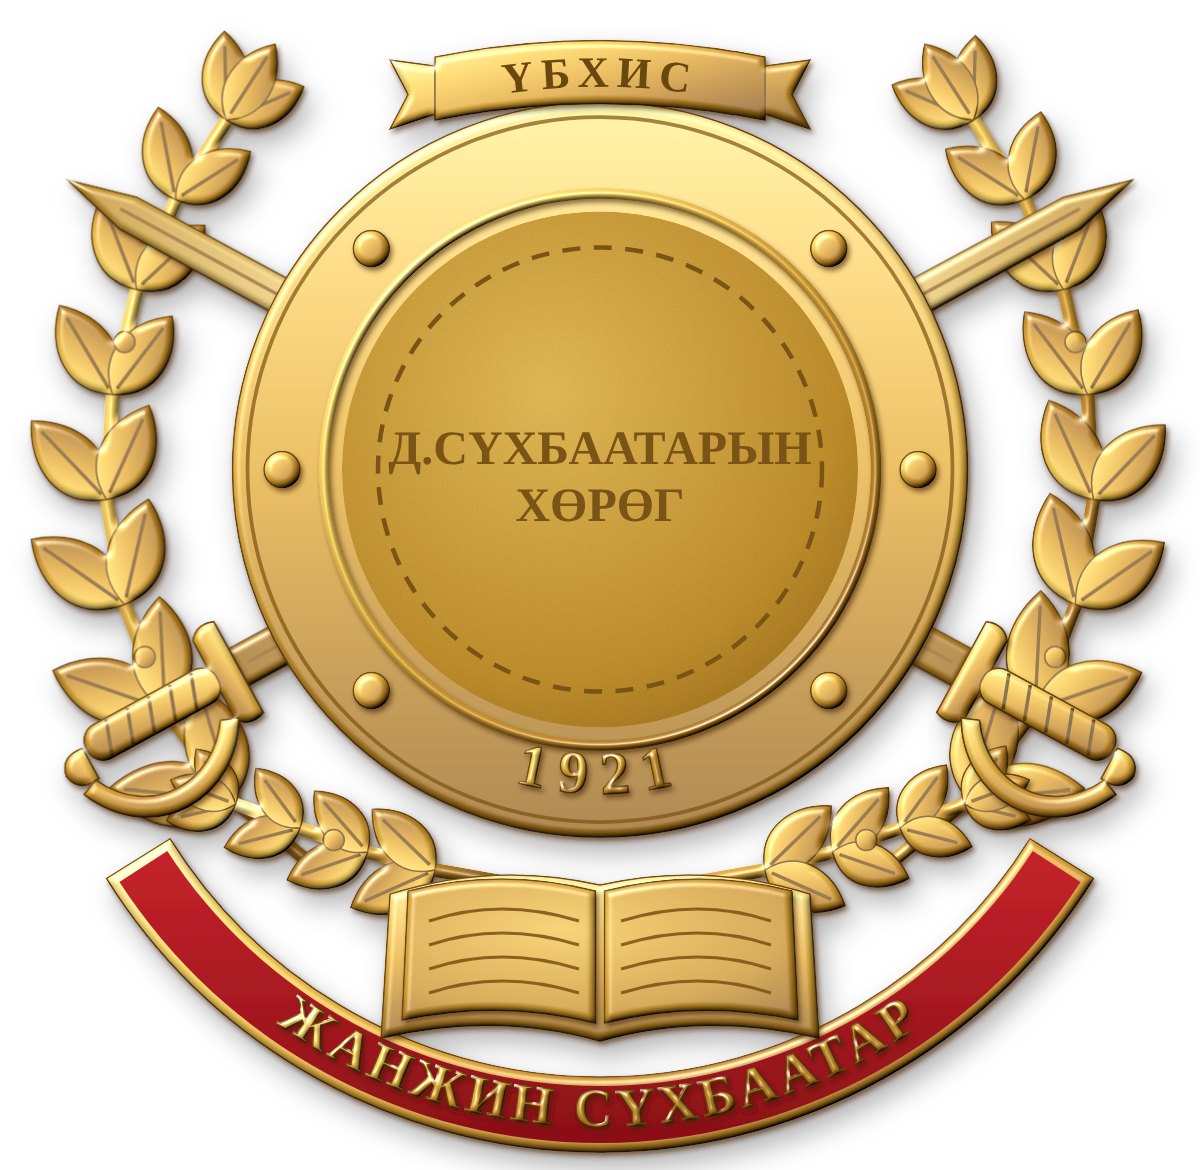
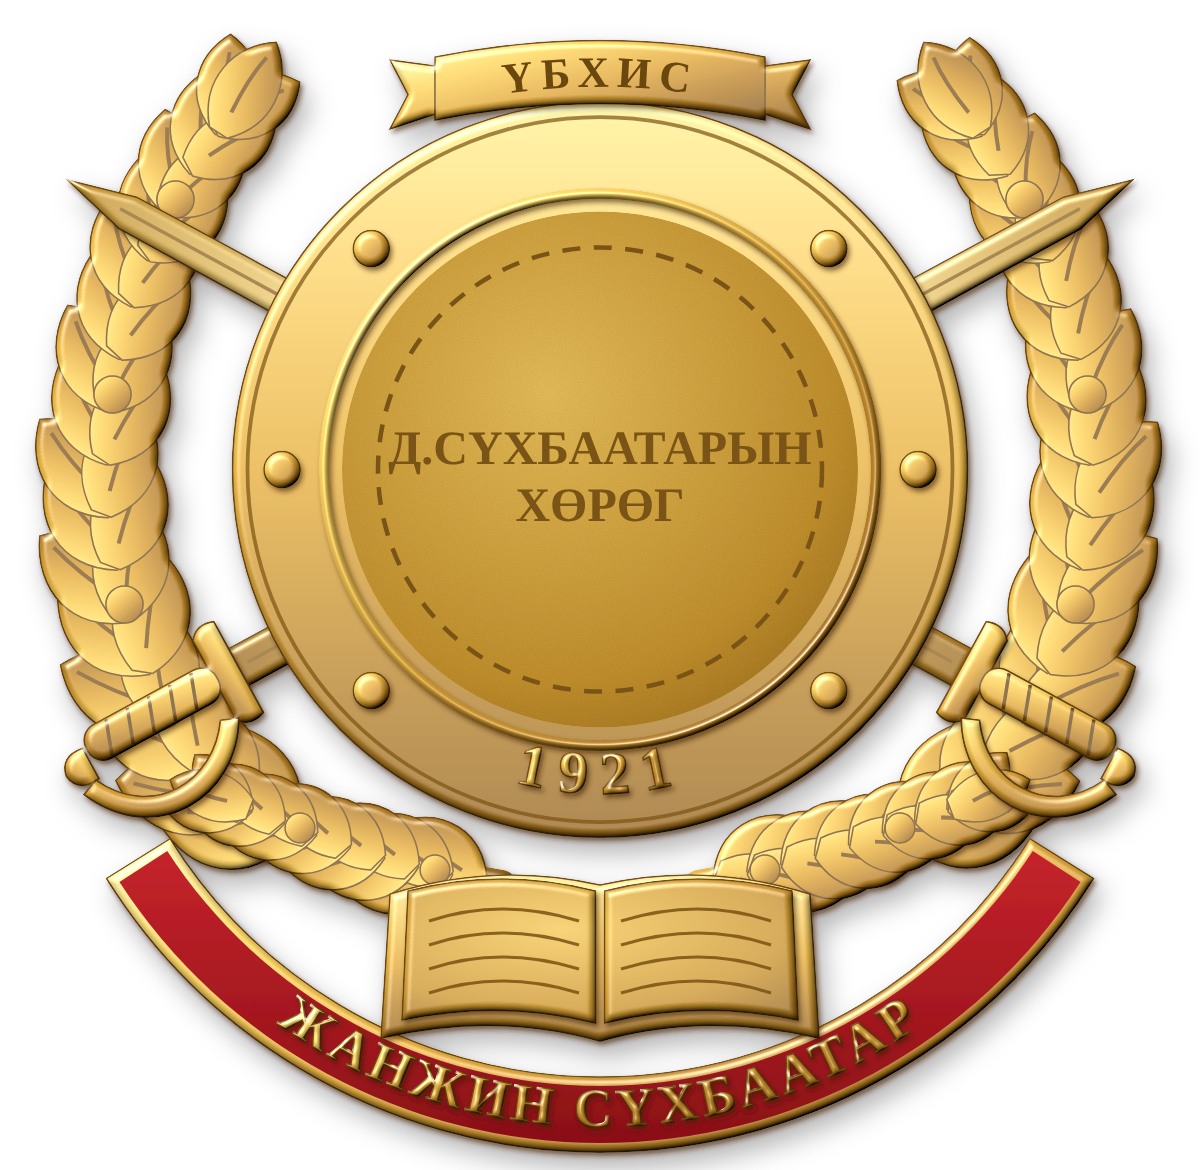
Make the laurel branches solid enough for metal casting
Thicker stems, broader leaves sunk into the stem and overlapping each
other, so each branch reads as one solid cast piece instead of thin
leaves joined at single points.

Claude-Session: https://claude.ai/code/session_019uvV65LEhrLAfTrsruz6Mp

Changed region(s): [[0.0, 0.0308, 0.4317, 0.8], [0.74, 0.0308, 0.9867, 0.6154], [0.5858, 0.5846, 0.925, 0.8]]

diff --git a/ubhis-yalgah-temdeg/src/awards4.js b/ubhis-yalgah-temdeg/src/awards4.js
@@ -19,34 +19,44 @@ const mx = (x) => 2 * CX - x;
 
 // ---------- leaf / laurel ----------
 function leaf(x, y, rot, L, Wd) {
+  // broad leaf whose base is sunk into the stem (solid joint for casting)
   return `<g transform="translate(${x} ${y}) rotate(${rot})">
-    <path d="M0 0 C${L * 0.25} ${-Wd} ${L * 0.7} ${-Wd * 0.85} ${L} 0 C${L * 0.7} ${Wd * 0.85} ${L * 0.25} ${Wd} 0 0 Z"/>
-    <path d="M5 0 L${L - 10} 0" stroke="#7a5212" stroke-width="2.2" fill="none"/></g>`;
+    <path d="M-10 -7 C${L * 0.22} ${-Wd * 1.1} ${L * 0.72} ${-Wd * 0.9} ${L} 0 C${L * 0.72} ${Wd * 0.9} ${L * 0.22} ${Wd * 1.1} -10 7 Z"/>
+    <path d="M6 0 Q${L * 0.5} -3 ${L - 12} 0" stroke="#7a5212" stroke-width="2.6" fill="none"/></g>`;
 }
-function branch(pts, size, mirror) {
-  // pts: stem points from base to tip. Leaves on both sides pointing toward the tip.
+function smooth(pts, n = 3) {
+  // densify the stem (more leaves, overlapping)
+  const out = [pts[0]];
+  for (let i = 1; i < pts.length; i++) for (let k = 1; k <= n; k++) {
+    const t = k / n; out.push([pts[i - 1][0] + (pts[i][0] - pts[i - 1][0]) * t, pts[i - 1][1] + (pts[i][1] - pts[i - 1][1]) * t]);
+  }
+  return out;
+}
+function branch(pts0, size, mirror, stemW) {
+  const pts = smooth(pts0, 2);
   const P = mirror ? pts.map(([x, y]) => [mx(x), y]) : pts;
-  let g = `<path d="M${P.map(p => p.join(' ')).join(' L')}" fill="none" stroke="url(#gold)" stroke-width="9" stroke-linecap="round" stroke-linejoin="round"/>`;
+  let leaves = '';
   for (let i = 1; i < P.length; i++) {
     const [x0, y0] = P[i - 1], [x1, y1] = P[i];
     const t = Math.atan2(y1 - y0, x1 - x0) * 180 / Math.PI;
-    const k = 1 - 0.35 * (i / P.length);
-    const L = size * k, Wd = size * 0.38 * k;
-    g += leaf(x1, y1, t - 34, L, Wd) + leaf(x1, y1, t + 34, L * 0.95, Wd * 0.95);
-    if (i % 3 === 0) g += `<circle cx="${(x0 + x1) / 2}" cy="${(y0 + y1) / 2}" r="7"/>`;
+    const k = 1 - 0.32 * (i / P.length);
+    const L = size * k, Wd = size * 0.46 * k;
+    leaves += leaf(x1, y1, t - 30, L, Wd) + leaf(x1, y1, t + 30, L * 0.96, Wd * 0.96);
   }
-  // tip leaf
   const [xa, ya] = P[P.length - 2], [xb, yb] = P[P.length - 1];
-  g += leaf(xb, yb, Math.atan2(yb - ya, xb - xa) * 180 / Math.PI, size * 0.7, size * 0.25);
-  return g;
+  leaves += leaf(xb, yb, Math.atan2(yb - ya, xb - xa) * 180 / Math.PI, size * 0.75, size * 0.32);
+  const stem = `<path d="M${P.map(p => p.join(' ')).join(' L')}" fill="none" stroke="url(#gold)" stroke-width="${stemW}" stroke-linecap="round" stroke-linejoin="round"/>`;
+  let berries = '';
+  P.forEach(([x, y], i) => { if (i % 4 === 2) berries += `<circle cx="${x}" cy="${y}" r="${stemW * 0.62}"/>`; });
+  return stem + leaves + berries;
 }
 const SIDE = [[205, 690], [150, 645], [105, 585], [78, 515], [66, 445], [70, 375], [86, 305], [112, 245], [146, 192]];
 const LOW = [[330, 700], [285, 692], [240, 680], [195, 664], [152, 648]];
 function laurels() {
-  return G(branch(SIDE, 86, false) + branch(SIDE, 86, true));
+  return G(branch(SIDE, 82, false, 20) + branch(SIDE, 82, true, 20));
 }
 function lowSprigs() {
-  return G(branch(LOW, 66, false) + branch(LOW, 66, true));
+  return G(branch(LOW, 62, false, 16) + branch(LOW, 62, true, 16));
 }
 
 // ---------- swords: straight blade, sabre hilt with knuckle bow ----------
